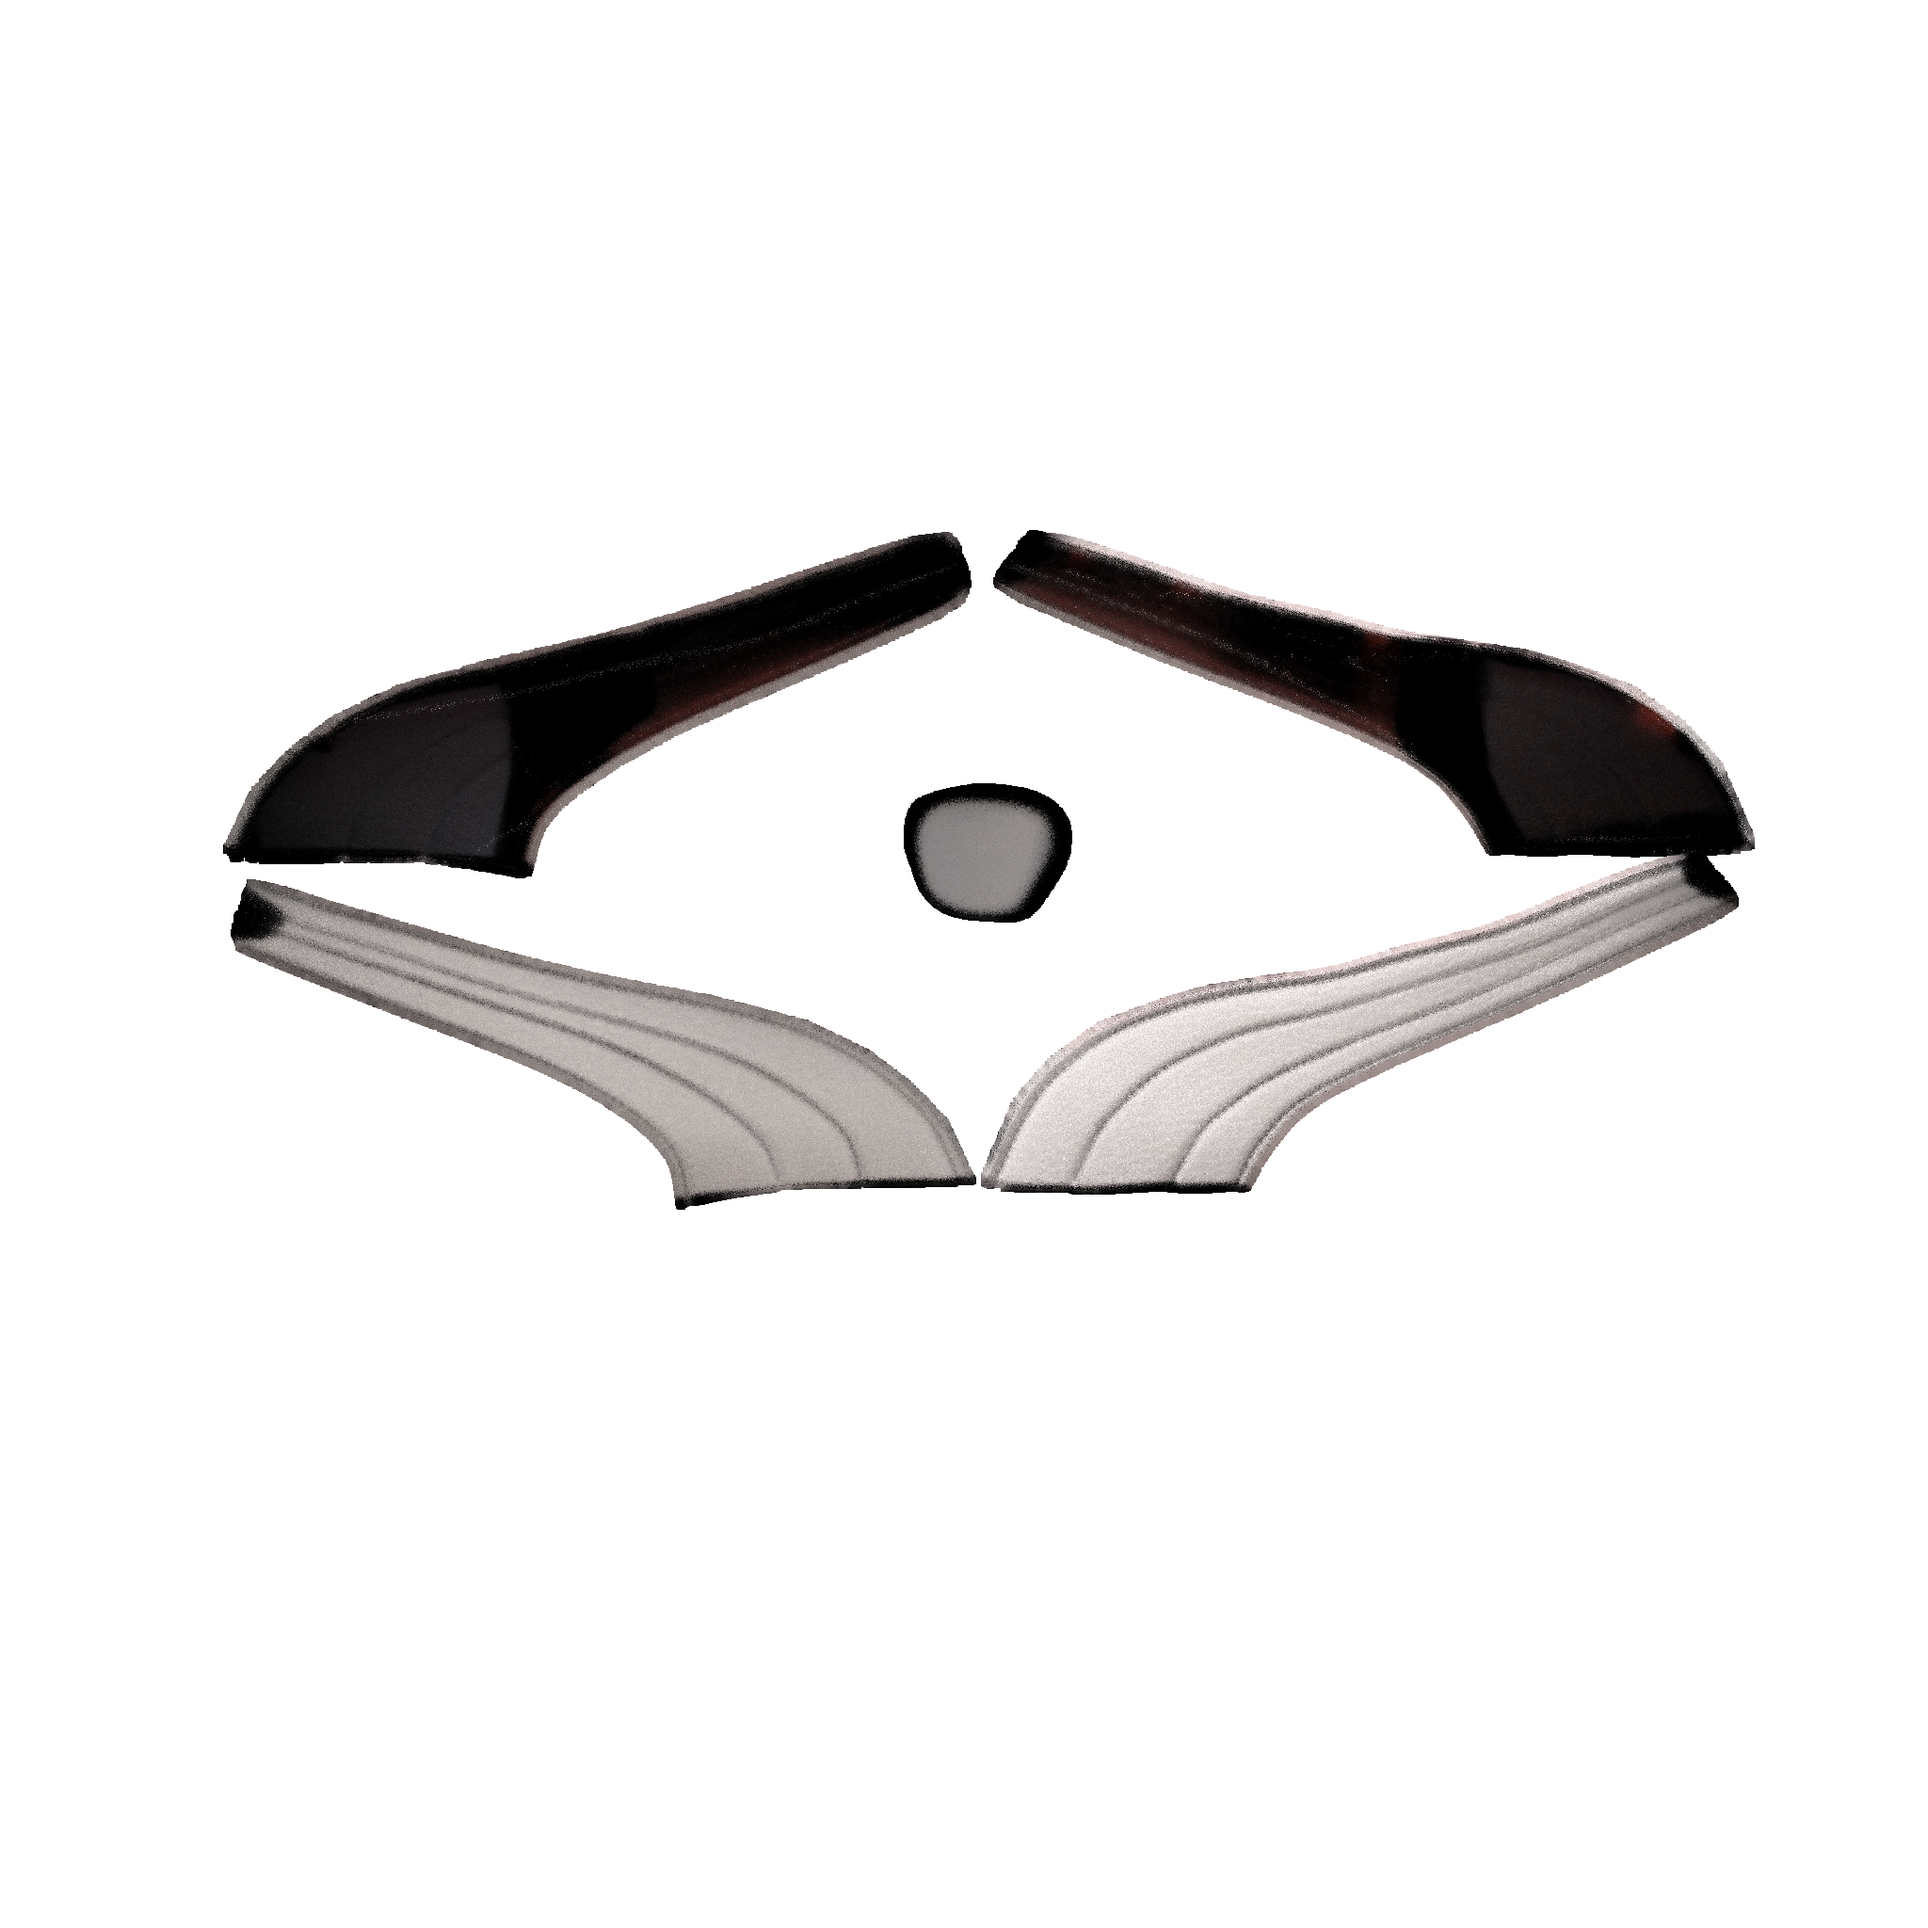
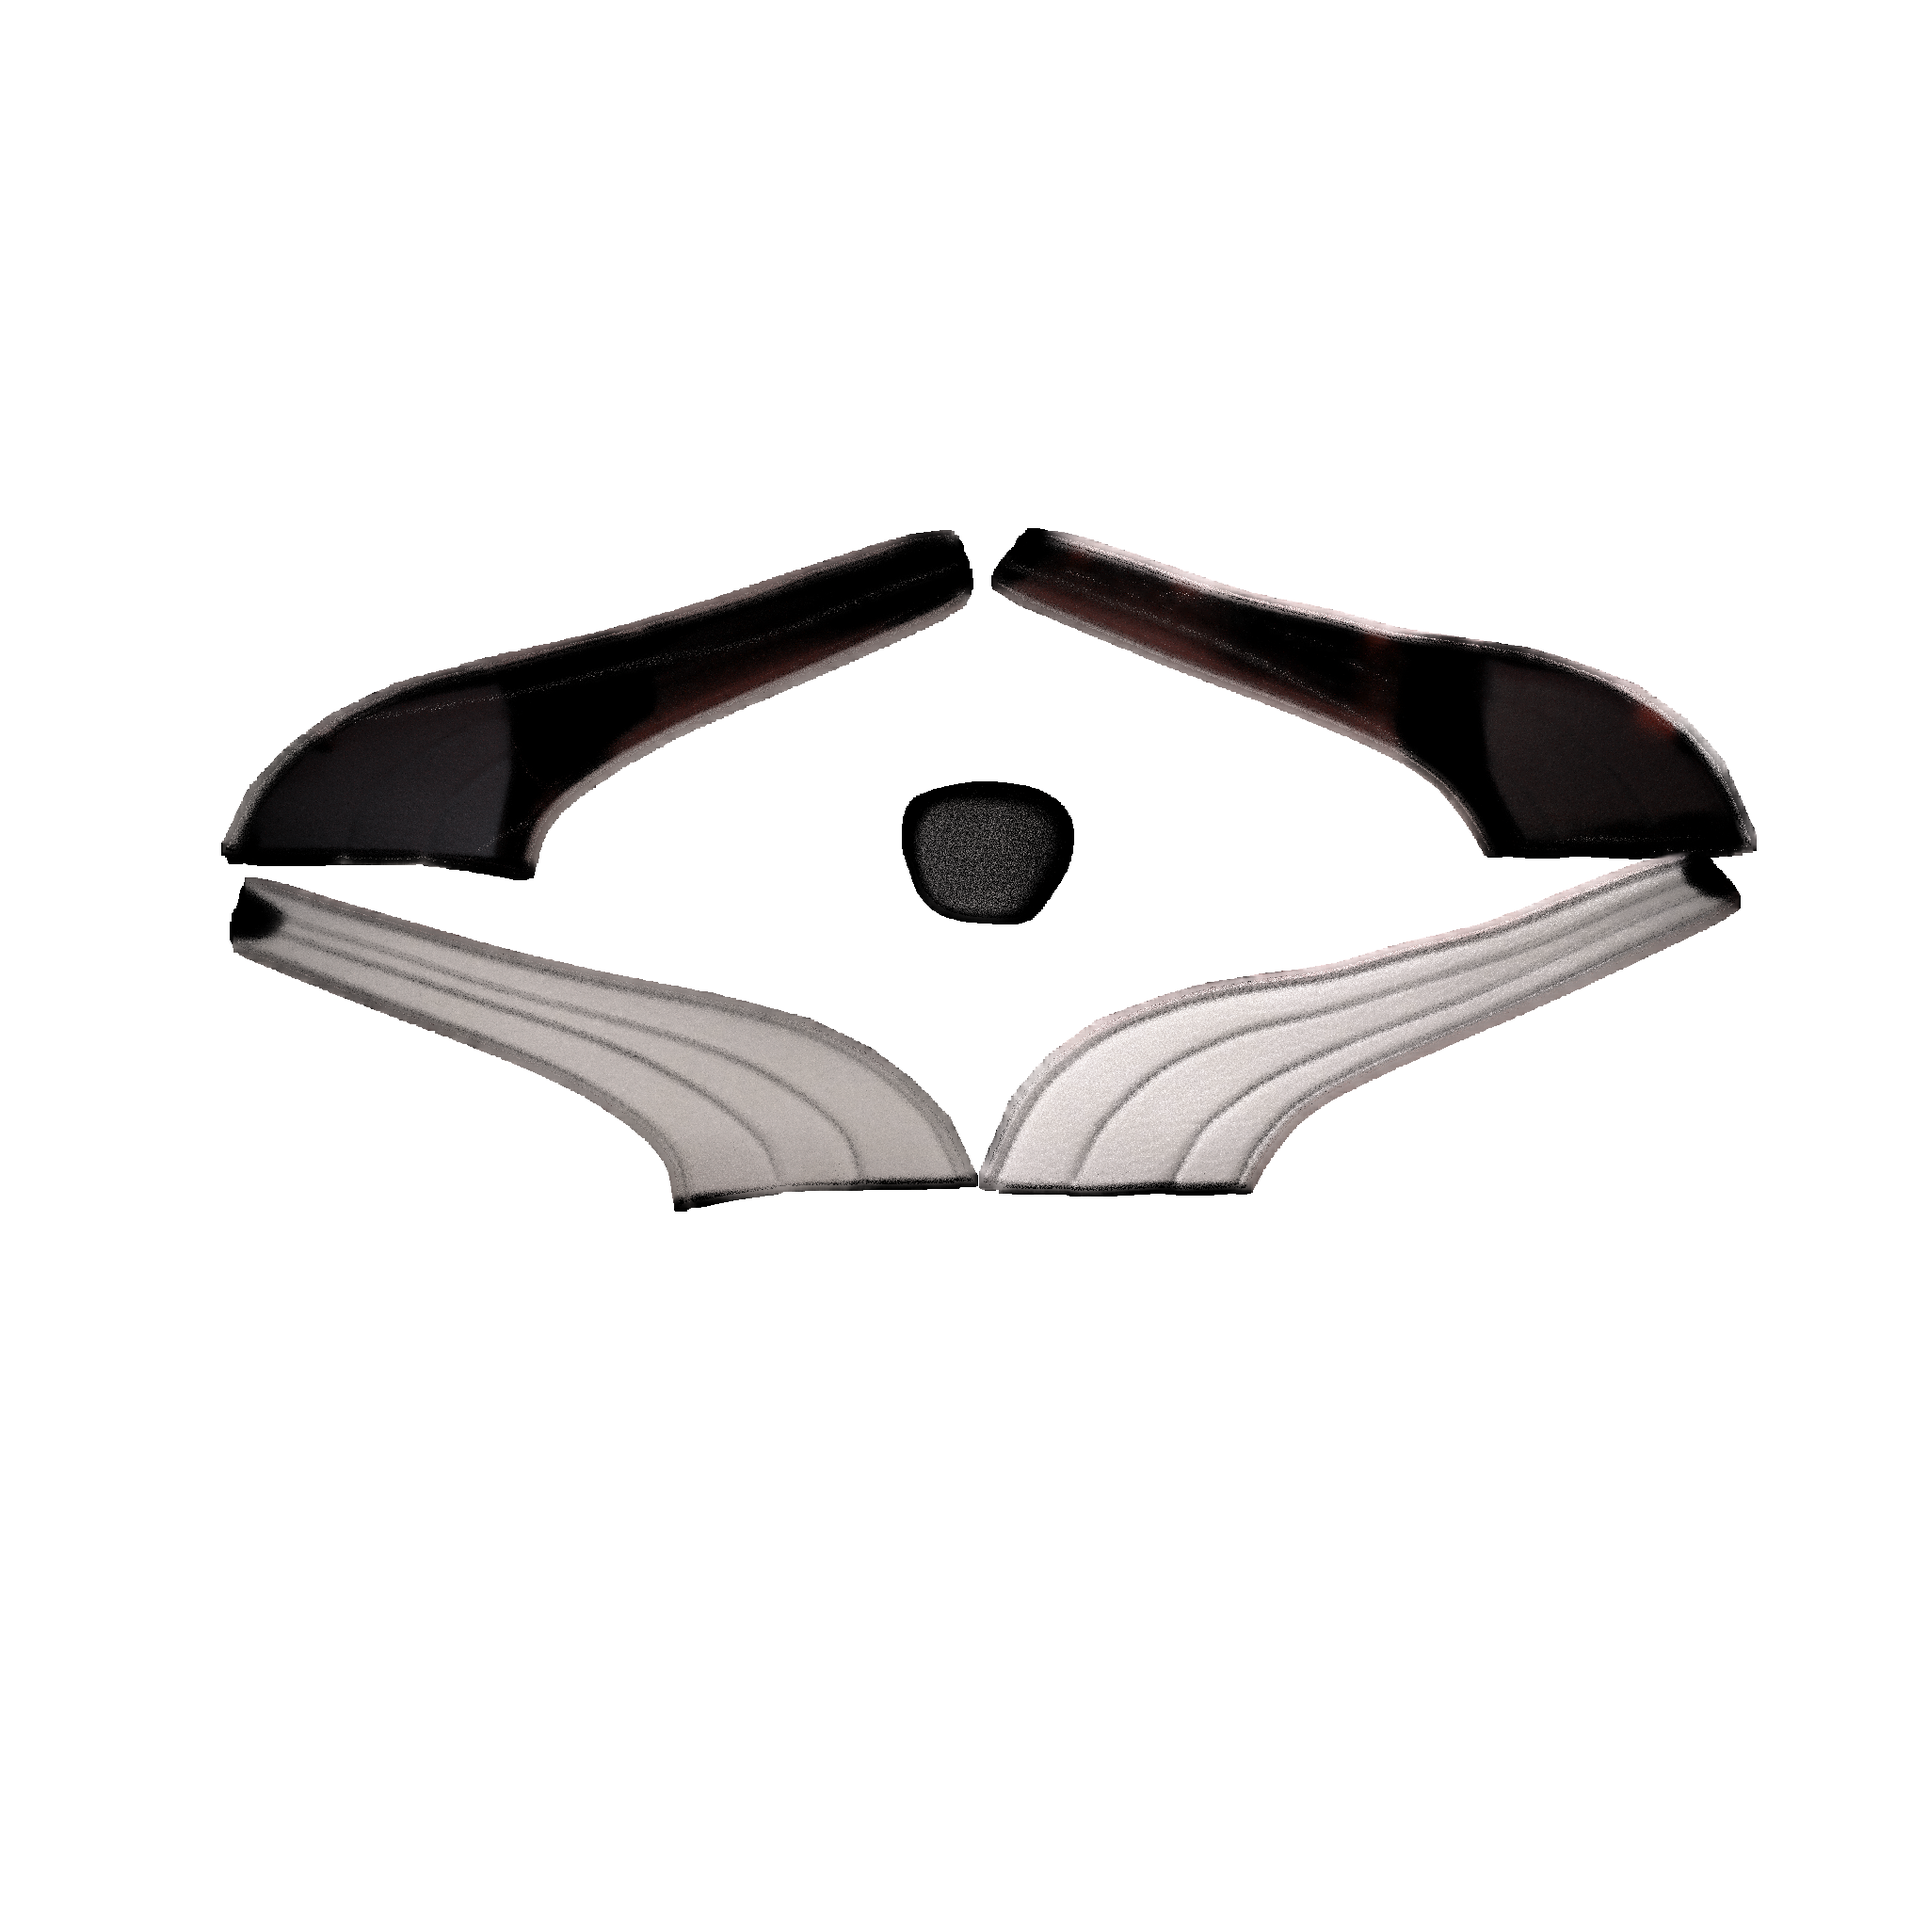
Puma focus bug images

diff --git a/index.js b/index.js
@@ -141,13 +141,13 @@ document.addEventListener("DOMContentLoaded", function(event) {
             var ambientLight = new THREE.AmbientLight(0xFFFFFF, 0.8);
             _scene.add(ambientLight);
 
-            var sideLight = new THREE.RectAreaLight(0xFFFFFF, 0.04, 0.135, 0.135, 0.5, 0.5);
+            var sideLight = new THREE.RectAreaLight(0xFFFFFF, 0.1, 0.135, 0.135, 0.5, 0.5);
             sideLight.matrixAutoUpdate = true;
             sideLight.position.set(-0.385, 0.183, -0.532);
             sideLight.rotateY(0.5 * Math.PI);
             sideLight.add(new THREE.RectAreaLightHelper(sideLight));
 
-            var topLight = new THREE.RectAreaLight(0xFFFFFF, 0.05, 0.56, 0.57, 0.5, 0.5);
+            var topLight = new THREE.RectAreaLight(0xFFFFFF, 0.12, 0.56, 0.57, 0.5, 0.5);
             topLight.matrixAutoUpdate = true;
             topLight.position.set(0.195, 0.620, -0.675);
             topLight.rotateX(0.5*Math.PI);
